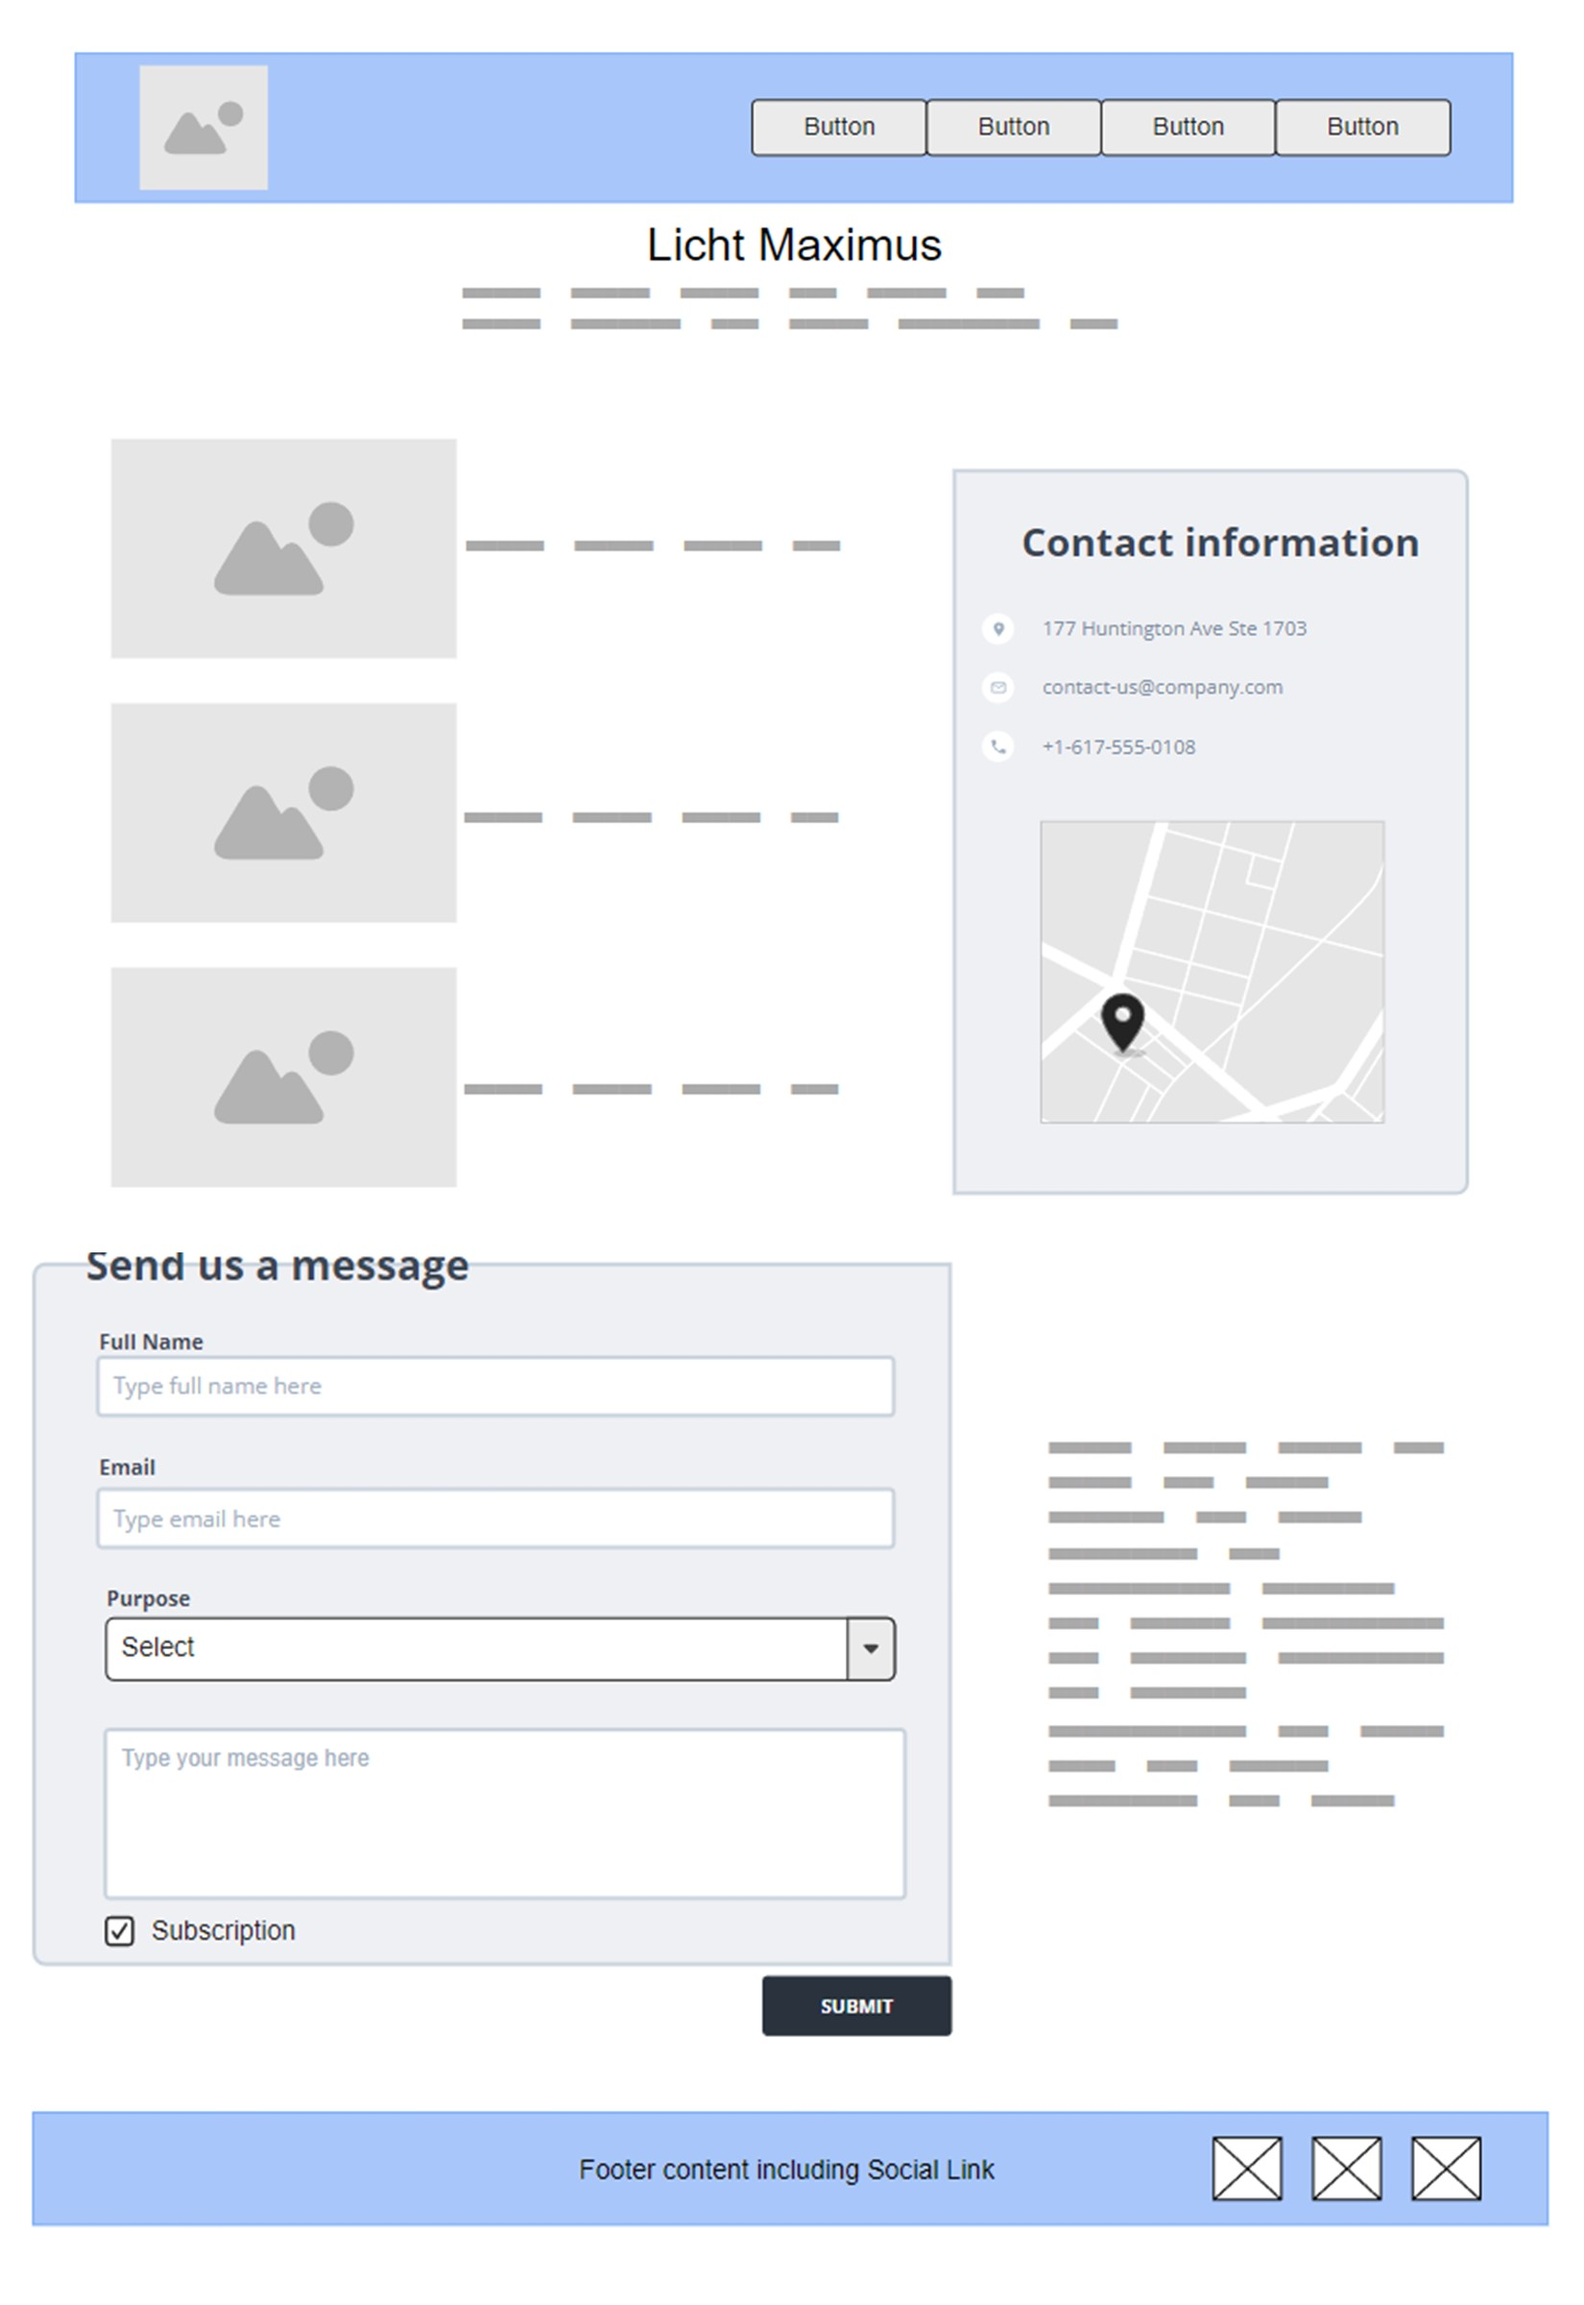
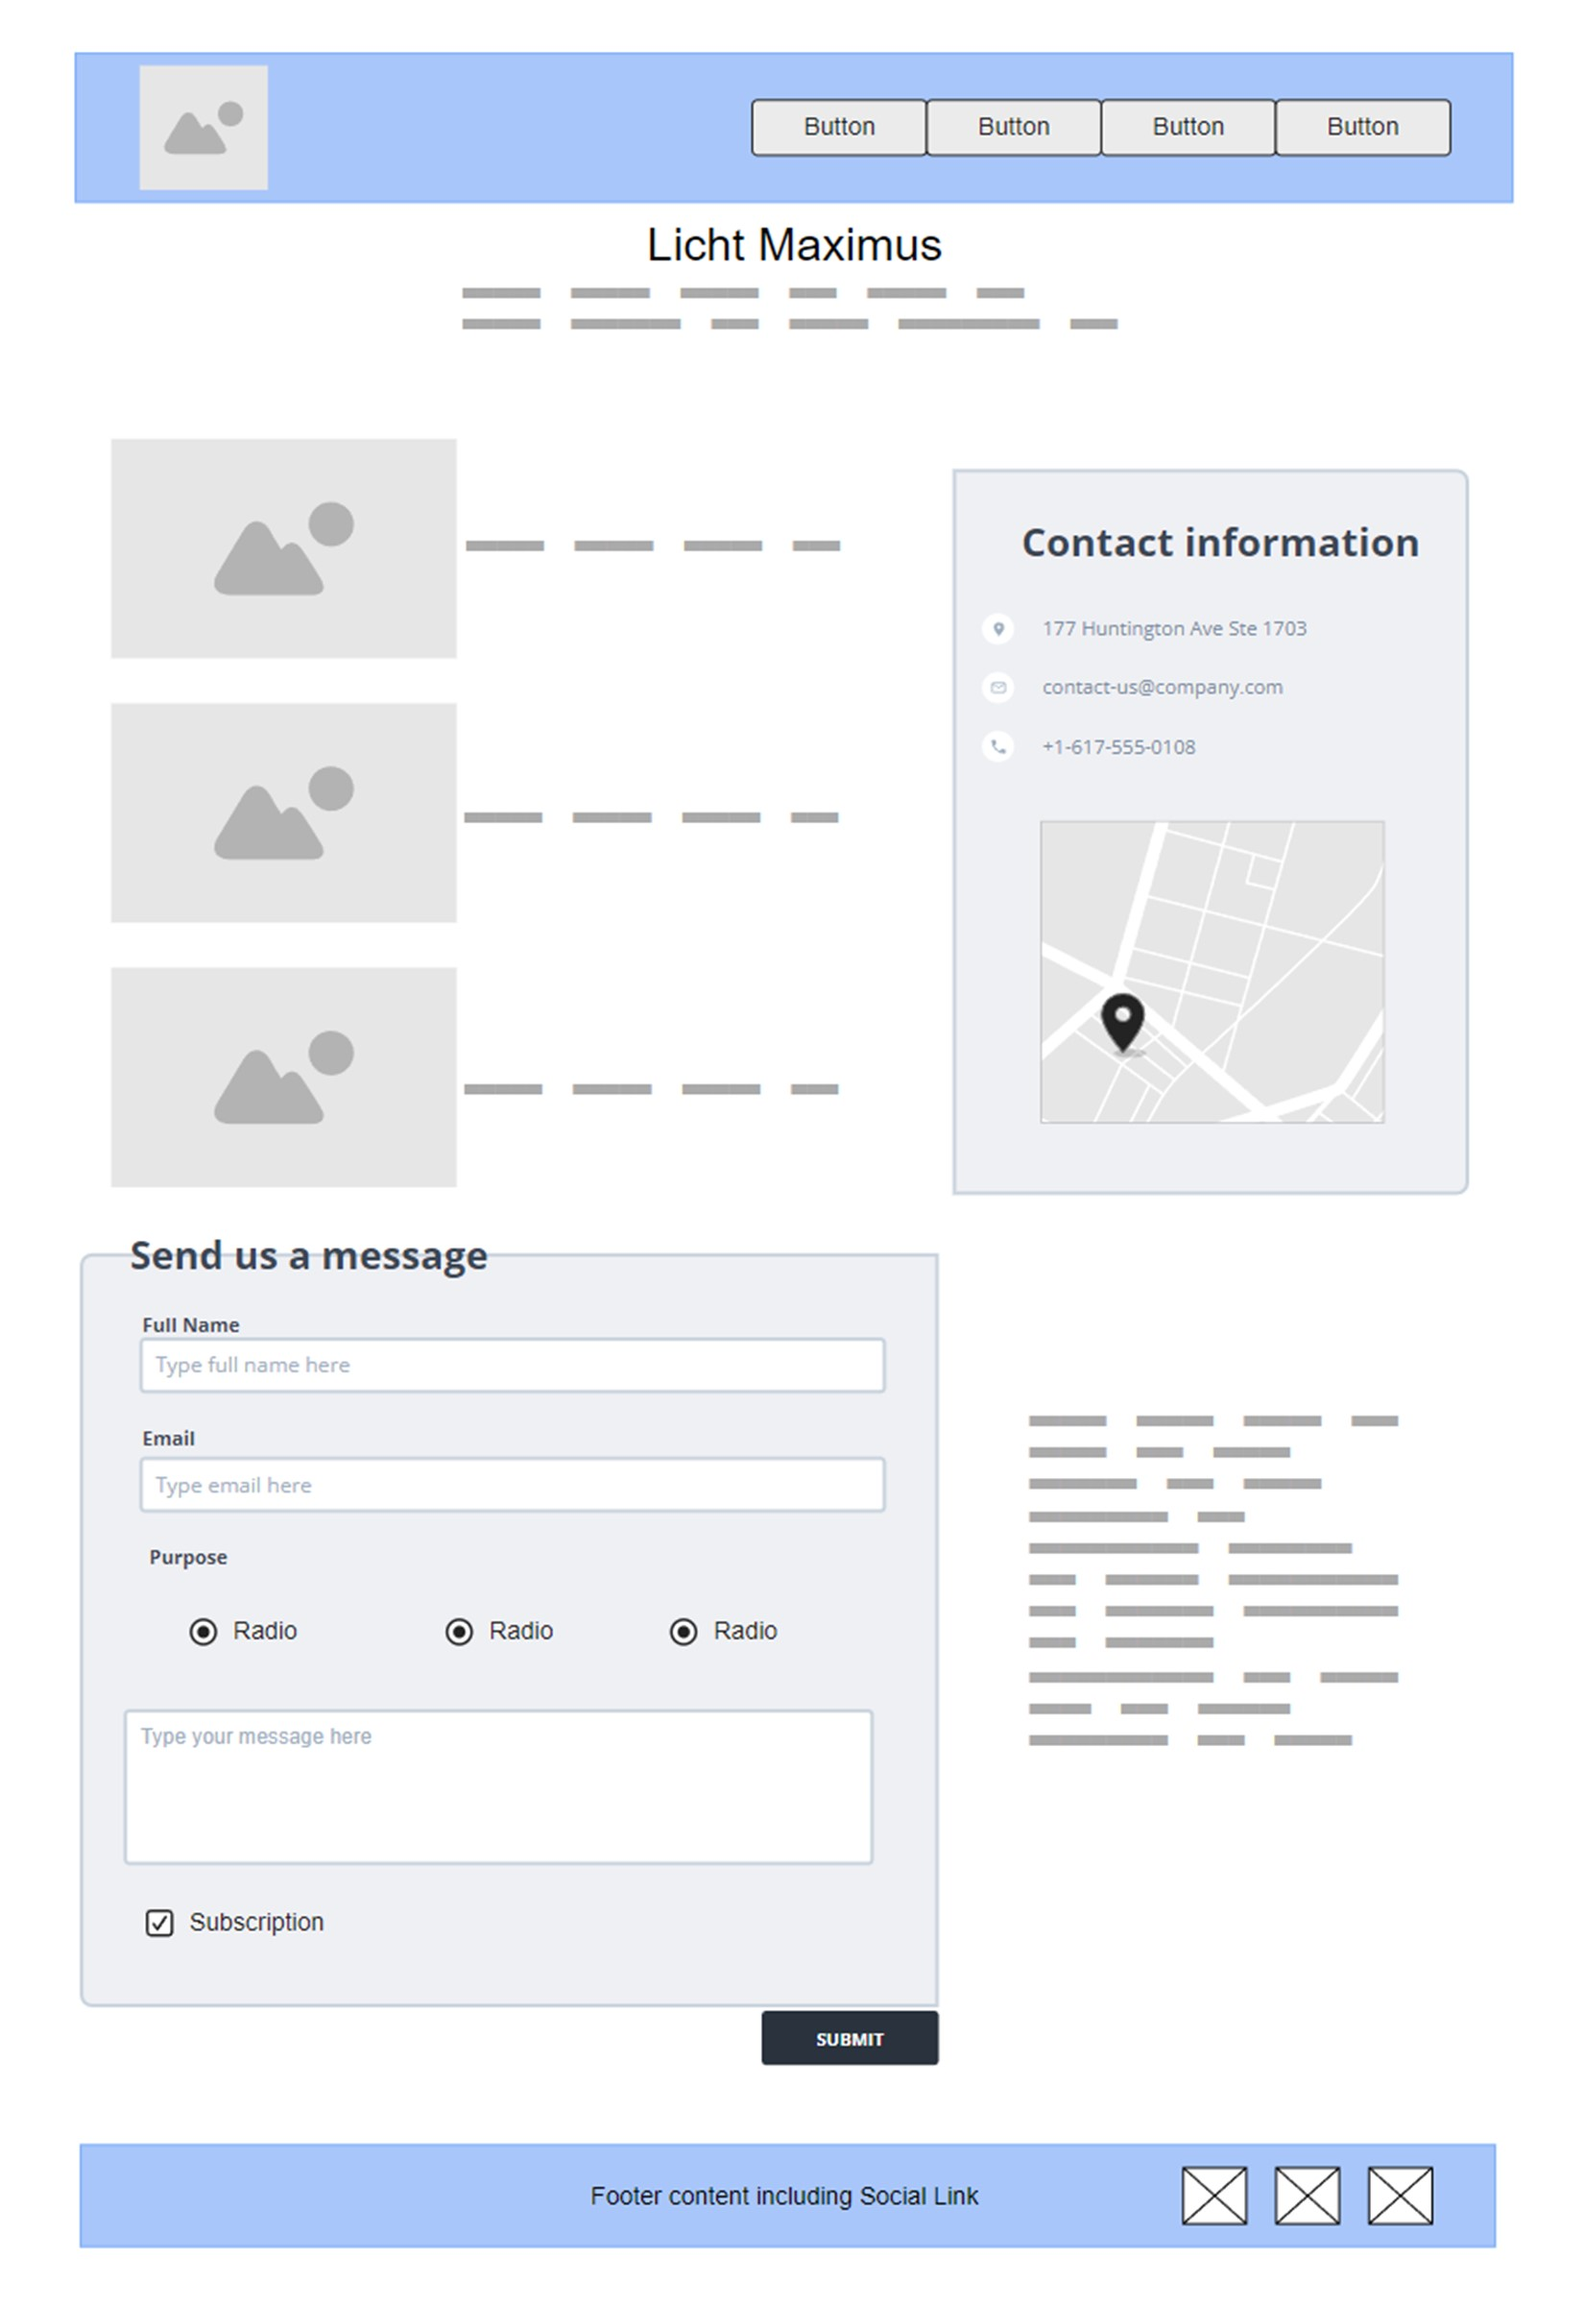
Added the radio button

diff --git a/wwr/contact.html b/wwr/contact.html
@@ -70,13 +70,15 @@
                     <input type="text" name="fullname" id="name" placeholder="Full Name" required>
                     <label for="email">Email</label>
                     <input type="email" name="email" id="email" placeholder="Email" required>
-                    <label for="purpose">Purpose</label>
-                    <select name="purpose" id="purpose">
-                        <option value="">-- Please choose an option --</option>
-                        <option value="inquiry">General Inquiry</option>
-                        <option value="reservation">Reservation Question</option>
-                        <option value="suggestions">Website Suggestion</option>
-                    </select>
+                    <label>Purpose</label>
+                    <div class="purpose">
+                        <input type="radio" id="generalInquiry" name="contactType" value="General Inquiry">
+                        <label for="generalInquiry">General Inquiry</label><br>
+                        <input type="radio" id="reservationQuestion" name="contactType" value="Reservation Question">
+                        <label for="reservationQuestion">Reservation Question</label><br>
+                        <input type="radio" id="websiteSuggestion" name="contactType" value="Website Suggestion">
+                        <label for="websiteSuggestion">Website Suggestion</label><br>
+                    </div>
 
                     <textarea name="message" rows="4" placeholder="Your message" required></textarea>
                     

diff --git a/wwr/styles/rafting.css b/wwr/styles/rafting.css
@@ -296,3 +296,18 @@ input[type="checkbox"] {
   align-self: center;
   padding: 2em;
 }
+
+.purpose {
+ display: flex;
+}
+
+input [type="radio"] {
+  width: 15px;
+  height: 15px;
+  padding: 0;
+  
+}
+
+textarea {
+  margin-top: 15px;
+}
